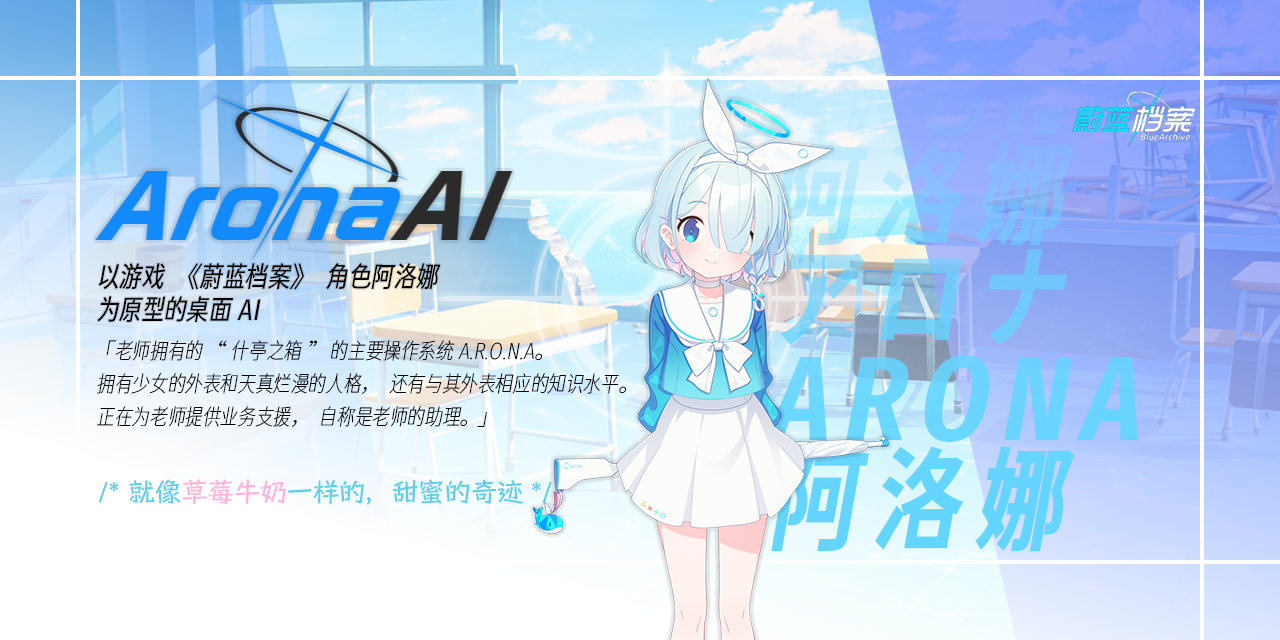
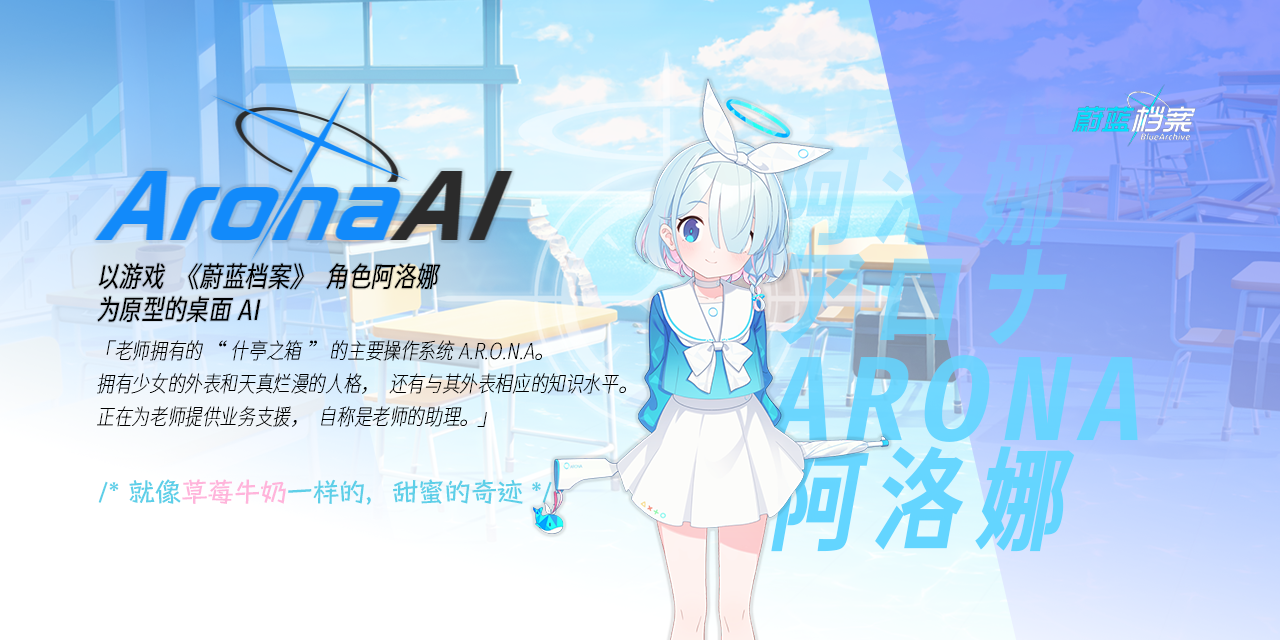
前端运行截图

diff --git a/README.md b/README.md
@@ -29,15 +29,15 @@
 This project integrates Arona Language Model (AronaLM), Text-to-Speech (TTS), Automatic Speech Recognition (ASR), Spine 2D character animation, and other technologies to provide a cute, lively, and fully-featured desktop interaction experience.
 
 <p align="center">
-  <img src="assets/running_example_1.png" alt="Running Example" width="600"/>
+  <img src="assets/running_example_2.png" alt="Running Example" width="600"/>
 </p>
 
 <p align="center">
-  <em>前端运行时截图</em>
+  <em>前端运行截图 - 阿洛娜 & 设置界面</em>
 </p>
 
 <p align="center">
-  <em>Frontend running screenshot</em>
+  <em>Frontend running screenshot - Arona & Setting Widget</em>
 </p>
 
 ---
